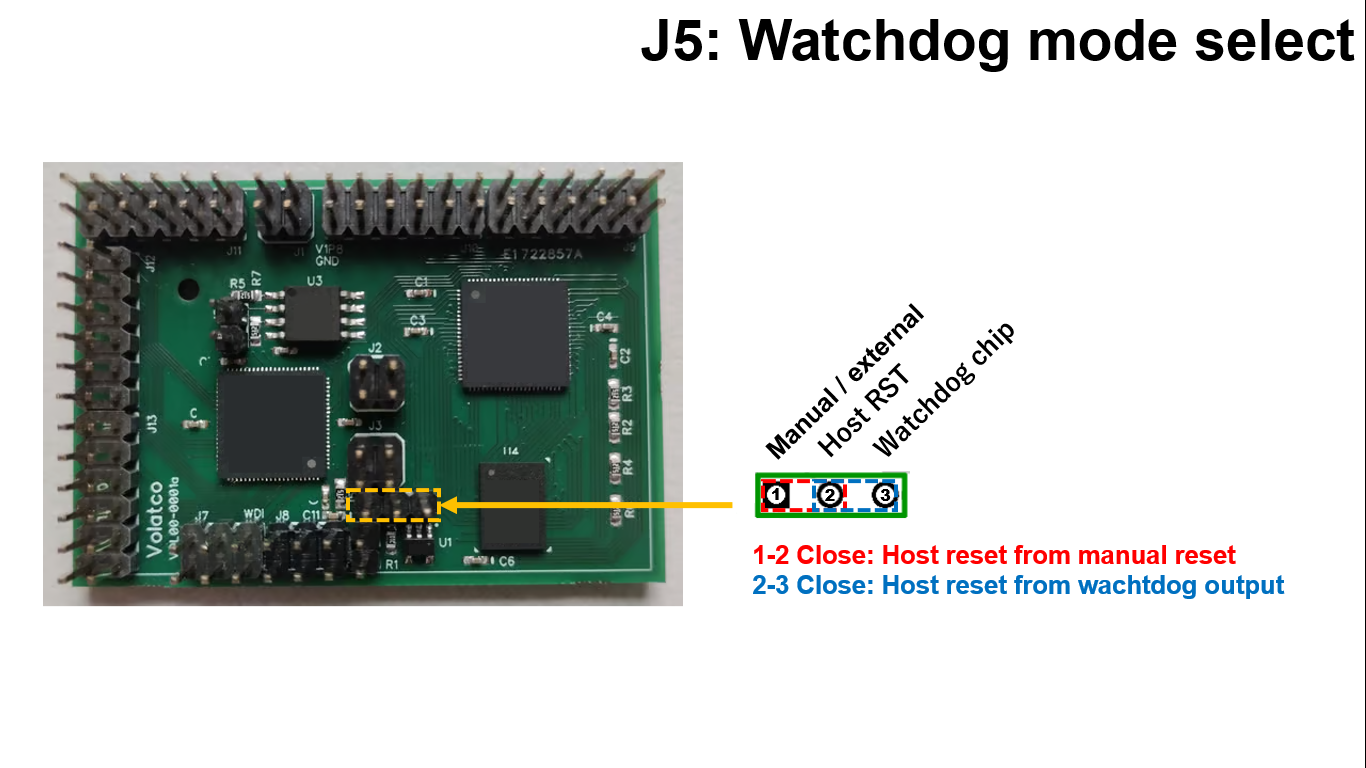
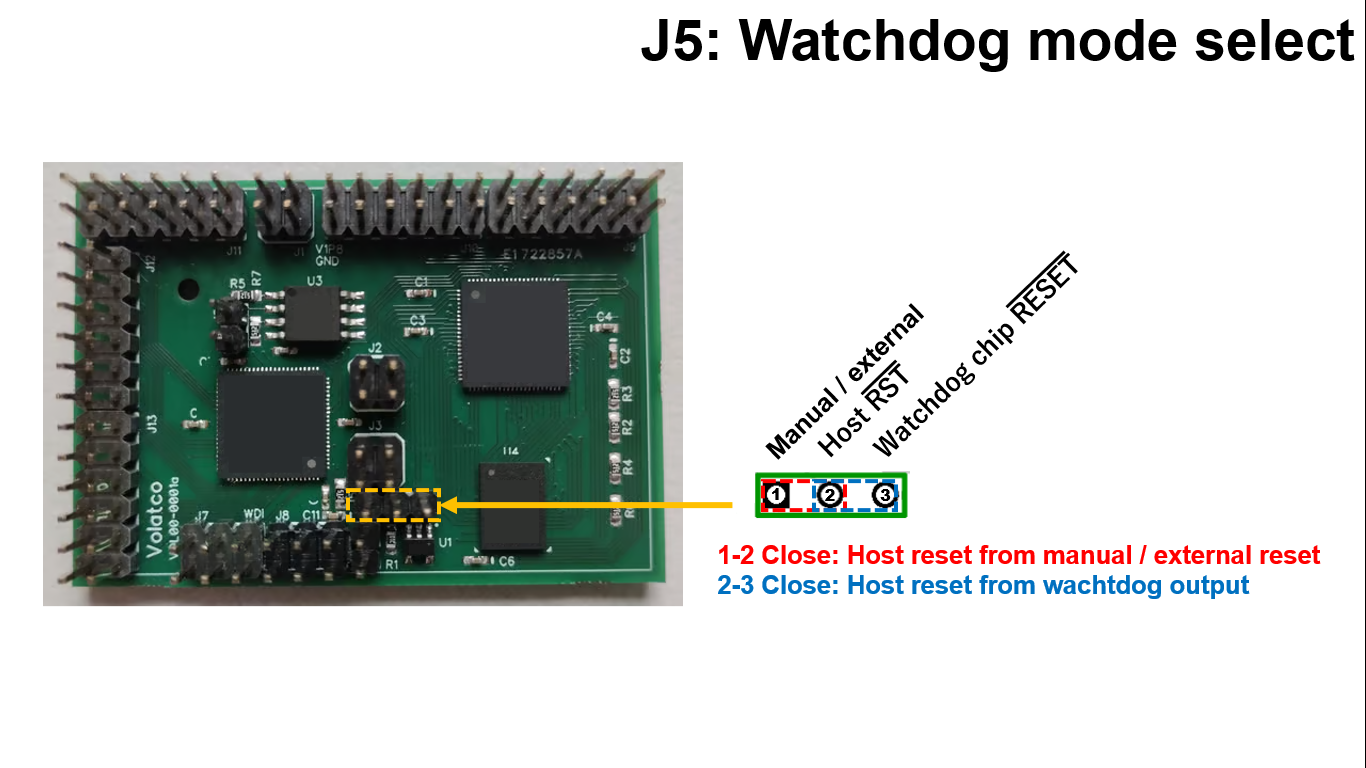
Updated images and words based on Gregs comments

Changed region(s): [[0.5227, 0.6875, 0.9839, 0.7812], [0.7379, 0.3125, 0.7994, 0.4375], [0.6457, 0.4688, 0.6764, 0.5]]

diff --git a/docs/_includes/readme-content.md b/docs/_includes/readme-content.md
@@ -91,7 +91,7 @@ All connections are made on the top of the PCB for Volatco model 'a'. The model 
 
 ![know-your-volatco](../assets/j1.png)
 
-Note that the ground pins are those nearest the PCB edge.
+Note that the ground pins are those nearest the PCB edge. Also, pin 4 will depend on what is provided from the stacked module boards above or below.
 
 ![know-your-volatco](../assets/j2.png)
 
@@ -123,7 +123,7 @@ Install this jumper to prevent program booting from the SPI flash. When this is 
 
 ![know-your-volatco](../assets/j7.png)
 
-This serial port supports an asynchronous serial terminal for polyFORTH running on `chip 0`. Pin 6 must be jumpered or wire wrapped to a pin generating watchdog pulses before the watchdog may be enabled.
+This serial port supports an asynchronous serial terminal for polyFORTH running on `chip 0`. Pin 6 must be jumpered or connected to a pin generating watchdog pulses before the watchdog may be enabled.
 
 ![know-your-volatco](../assets/j8.png)
 
@@ -141,7 +141,7 @@ This serial port is used to talk to nodes on one or both chips directly using th
 
 ![know-your-volatco](../assets/j13.png)
 
-Be aware that pin 6 `10708.17` is input to a boot node. If pin is being driven high by another device when `chip 1` is reset, node `10708` will delay for a long time during boot which may cause problems with watchdog. If being used as an output and driven high on reset, the RC time constant of load capacitance and weak pull down resistance may be long enough to delay booting. The same is true of `10705.17` if being used as an input and driven low by another device during reset.
+Be aware that pin 6 `10708.17` is input to a boot node. If pin is being driven high by another device when `chip 1` is reset, node `10708` will delay for a long time during boot which may cause problems with watchdog. If being used as an output and driven high on reset, the RC time constant of load capacitance and weak pull down resistance may be long enough to delay booting. The same is true of `10705.17` if being used as an input and driven low by another device during reset. Note that `10705.17` is pulled up with 5.1kΩ. If this pin is not being used it should be set to high impedance to minimize power consumption.
 
 ### Forest Creature Adventures
 
